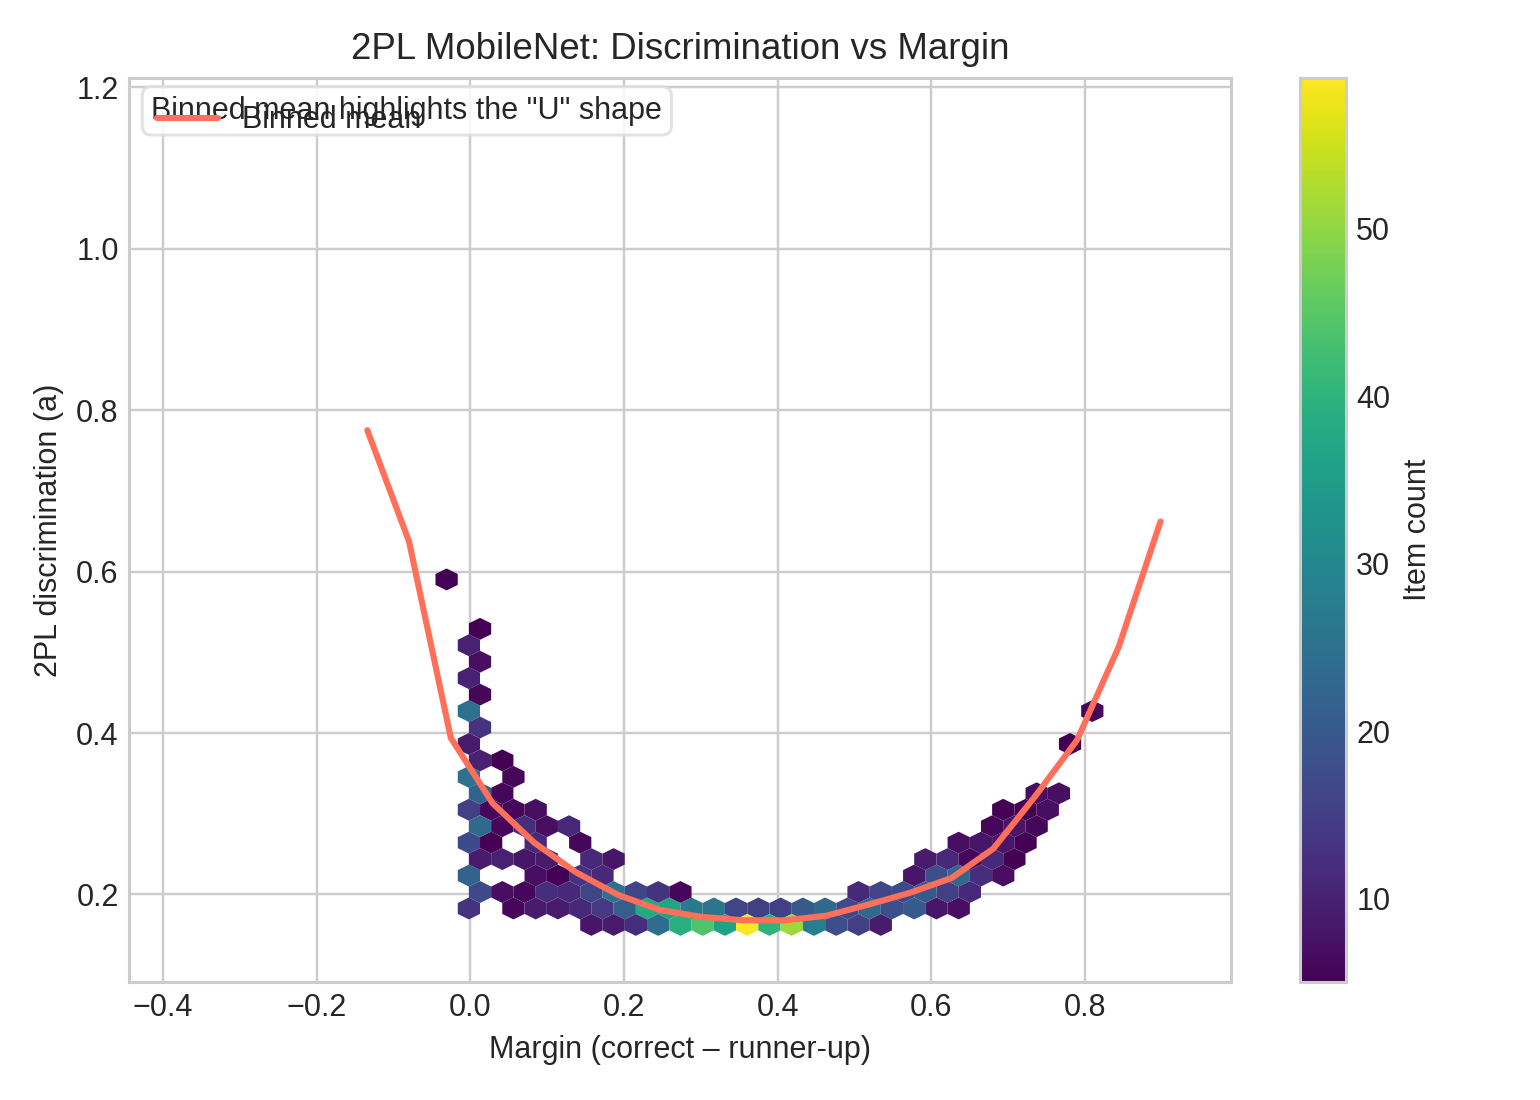
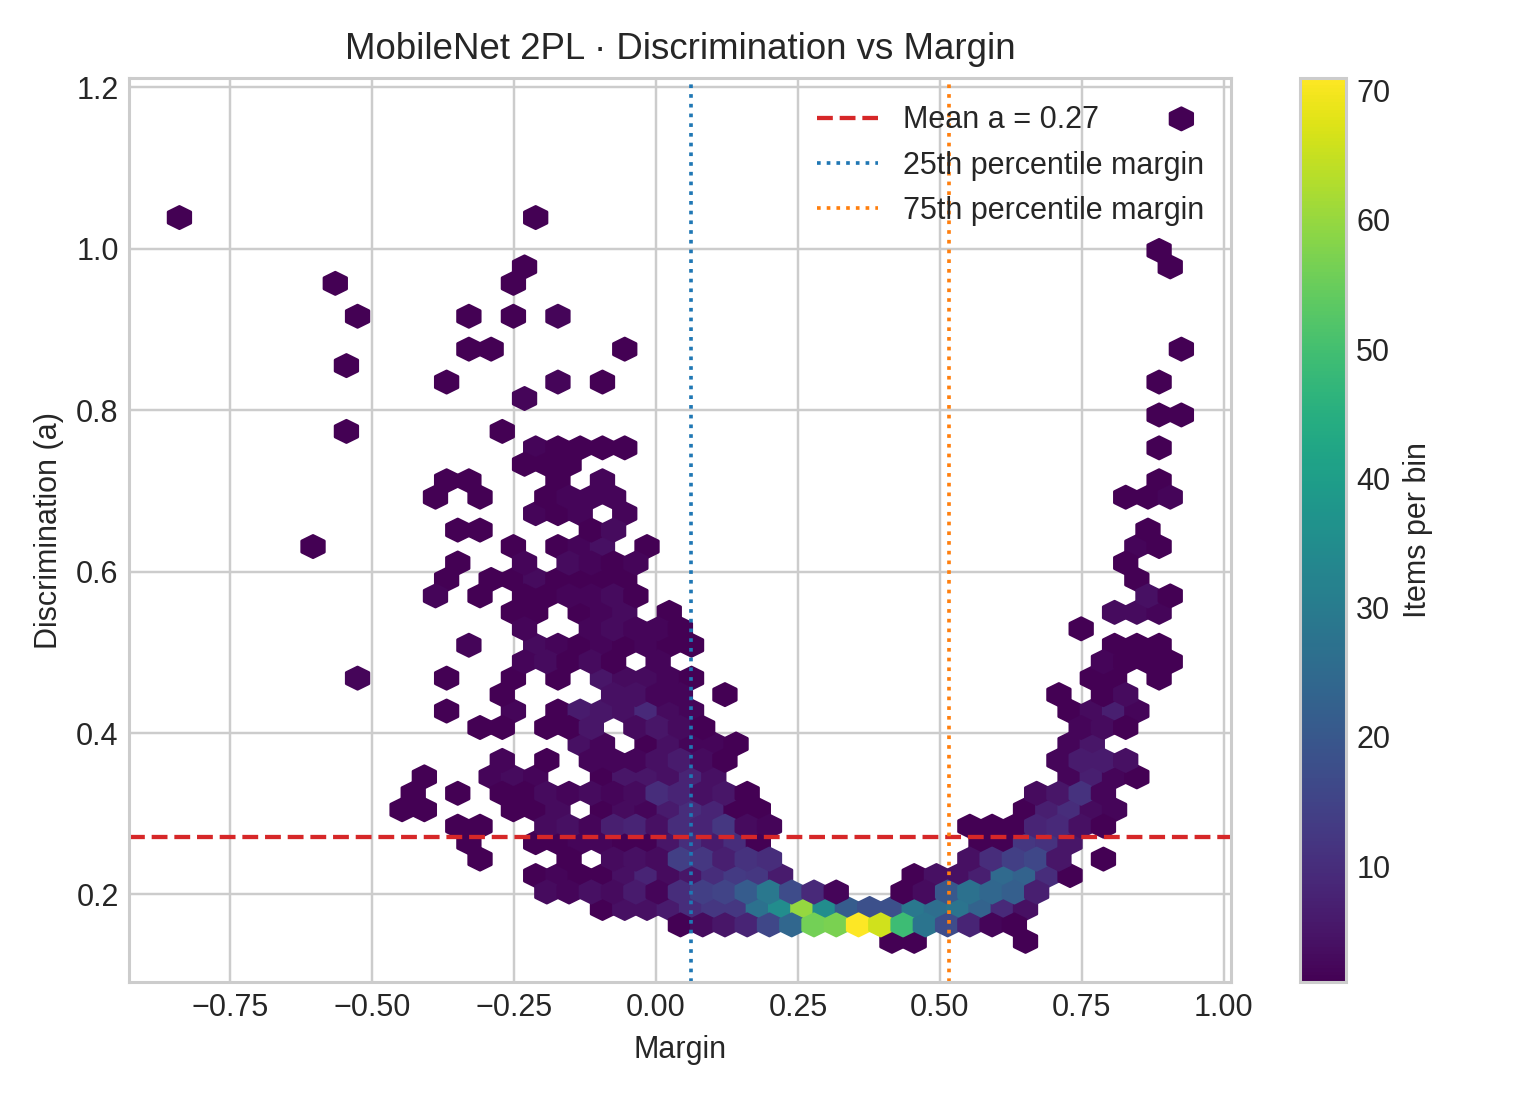
fix 2pl discrimination vs margin and vs entropy

diff --git a/slides.md b/slides.md
@@ -802,7 +802,7 @@ $$\Pr(R_{ij}=1 \mid \theta_i, \delta_j) = \frac{1}{1 + e^{- (\theta_i - \delta_j
 
 - Mean 𝑎 settles at **0.27 ± 0.15** with a modest tail (max ≈1.16).
 - 𝑎 correlates with margin at **−0.32** and with entropy at **+0.10**, keeping residual cat/dog confusion in focus while the easy cluster sharpens.
-- Hexbins reveal the rotated "U": steep slopes sit at both extremes (hard animals, ultra-easy scenes), while mid-margin items stay flat.
+- Discrimination concentrates in the tails: the easiest (high-margin, low-entropy) and hardest (low-margin, high-entropy) images keep higher 𝑎, while mid-uncertainty cases flatten out.
 - Artifacts: `data/mobilenet/irt_parameters_2pl.npz`, `data/mobilenet/rf_irt_correlations_2pl.json`, `figures/mobilenet_2pl_*`.
 
 <div class="columns">
@@ -820,7 +820,7 @@ $$\Pr(R_{ij}=1 \mid \theta_i, \delta_j) = \frac{1}{1 + e^{- (\theta_i - \delta_j
   </div>
 </div>
 
-- Even at 81% accuracy, the extreme animal band anchors the right branch of the "U" while cluttered backgrounds anchor the left.
+- Signal hides in the extremes: hard animal confusions and trivially easy scenes are what still separate trees, while average items contribute little discrimination.
 
 ---
 
